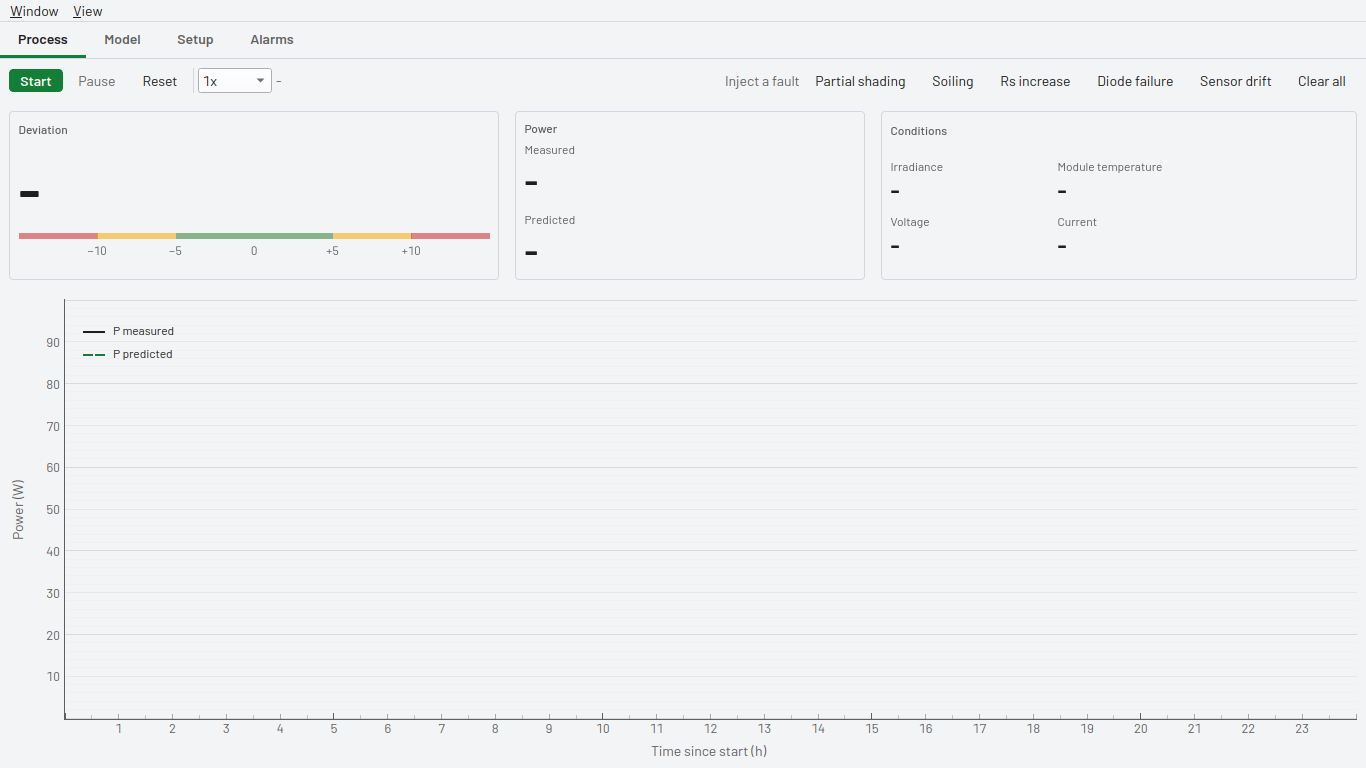
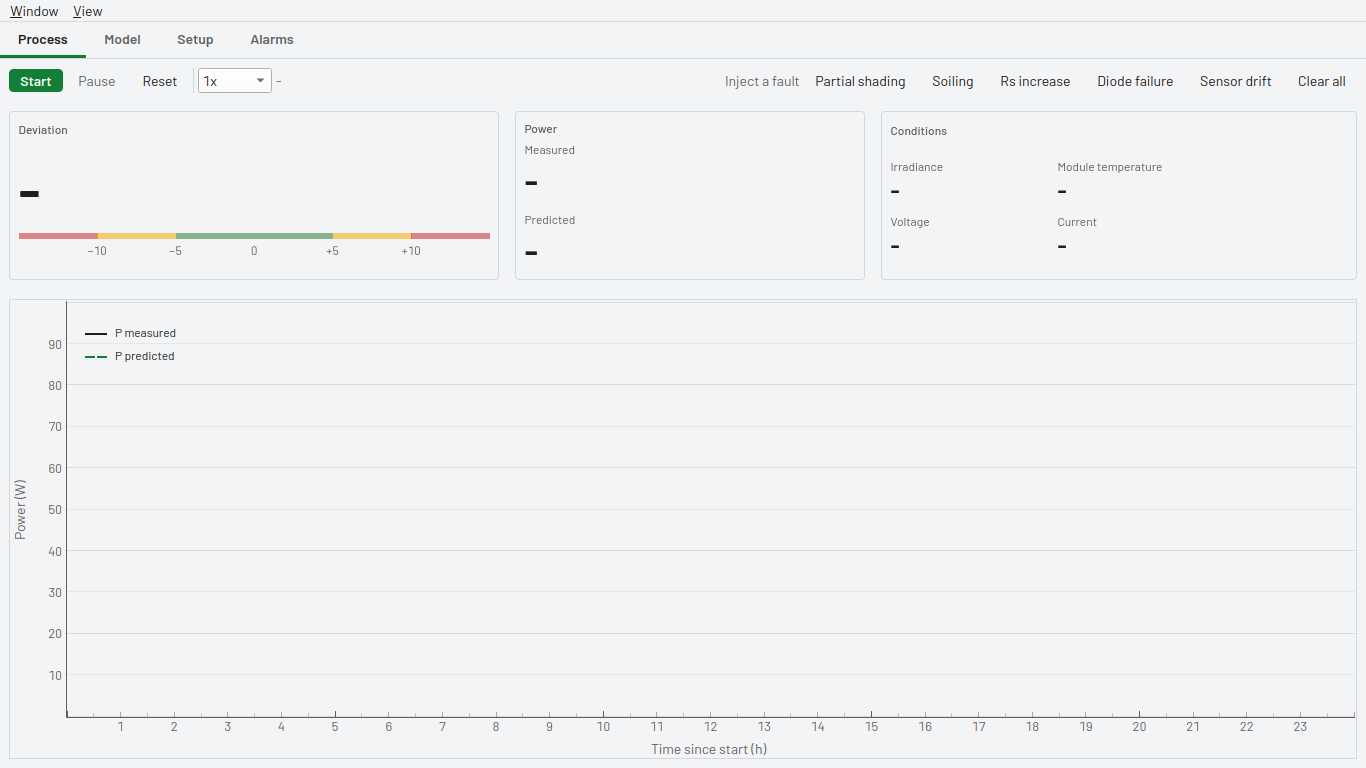
Put the Process power chart in a bordered pane

diff --git a/src/pvysics/gui/process_view.py b/src/pvysics/gui/process_view.py
@@ -31,7 +31,7 @@ from pvysics.gui.metric_strip import GAUGE_SCALE_FACTOR, Group, MetricStrip, Til
 from pvysics.gui.palette import LIGHT, STATE_COLOURS, Palette
 from pvysics.gui.playback import SPEEDS, PlaybackController
 from pvysics.gui.trend import PowerTrend
-from pvysics.gui.ui_helpers import role_label, set_property, vertical_separator
+from pvysics.gui.ui_helpers import pane, role_label, set_property, vertical_separator
 from pvysics.history import RunHistory
 from pvysics.run import POWER_FLOOR_W, Sample, State, Thresholds
 
@@ -298,7 +298,7 @@ class ProcessView(QWidget):
         layout.setSpacing(10)
         layout.addWidget(self._build_toolbar())
         layout.addWidget(self.strip)
-        layout.addWidget(self.trend, 1)
+        layout.addWidget(pane(self.trend), 1)
         layout.addWidget(self.alarm_panel)
 
         bus.sample.connect(self._show_sample)
